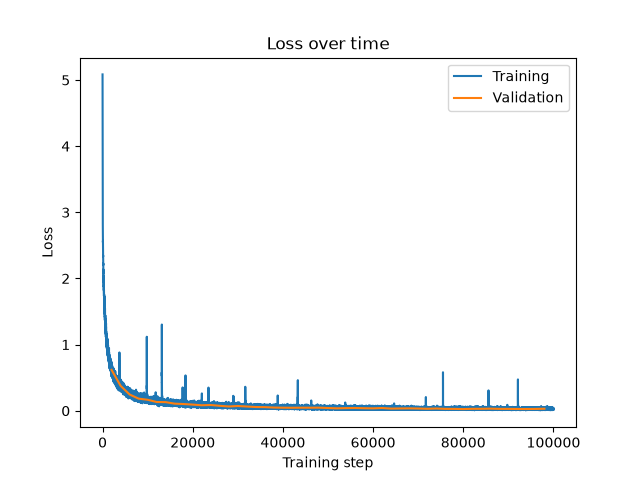
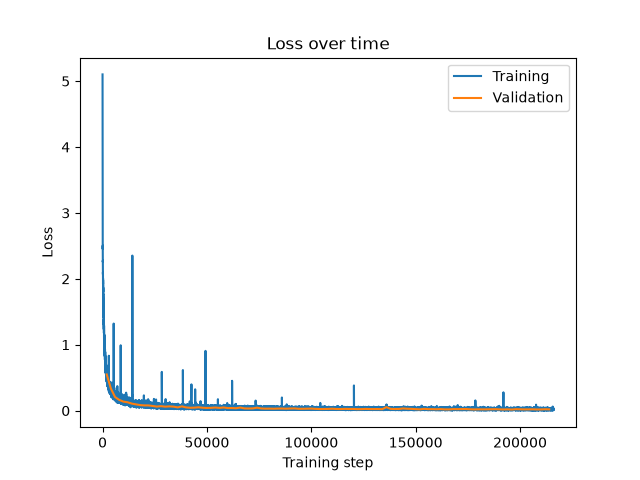
Official done with the AE after the grid search for the lr.     batch_size, embed_dim, hidden_dim, num_layers, lr, epochs = 512, 64, 64, 2, 0.001, 30 are the best hyperparams. See train_258808.out for reference.

diff --git a/AE/train.py b/AE/train.py
@@ -27,7 +27,7 @@ def train():
     # Each time save the loss with a different name
     # 512, 32, 32, 2, 0.001, 30 work best so far
     # Note encoder and decoder use the same hidden_dim and num_layers
-    batch_size, embed_dim, hidden_dim, num_layers, lr, epochs = 512, 64, 64, 2, 0.001, 30
+    batch_size, embed_dim, hidden_dim, num_layers, lr, epochs = 512, 64, 64, 2, 0.005, 30
 
     # Hyperparameter used for early stopping: if performance doesn't improve for patience times when evaluating
     # the model (doen every 2000 batches) on the entire evaluation set, then early stopping is triggered